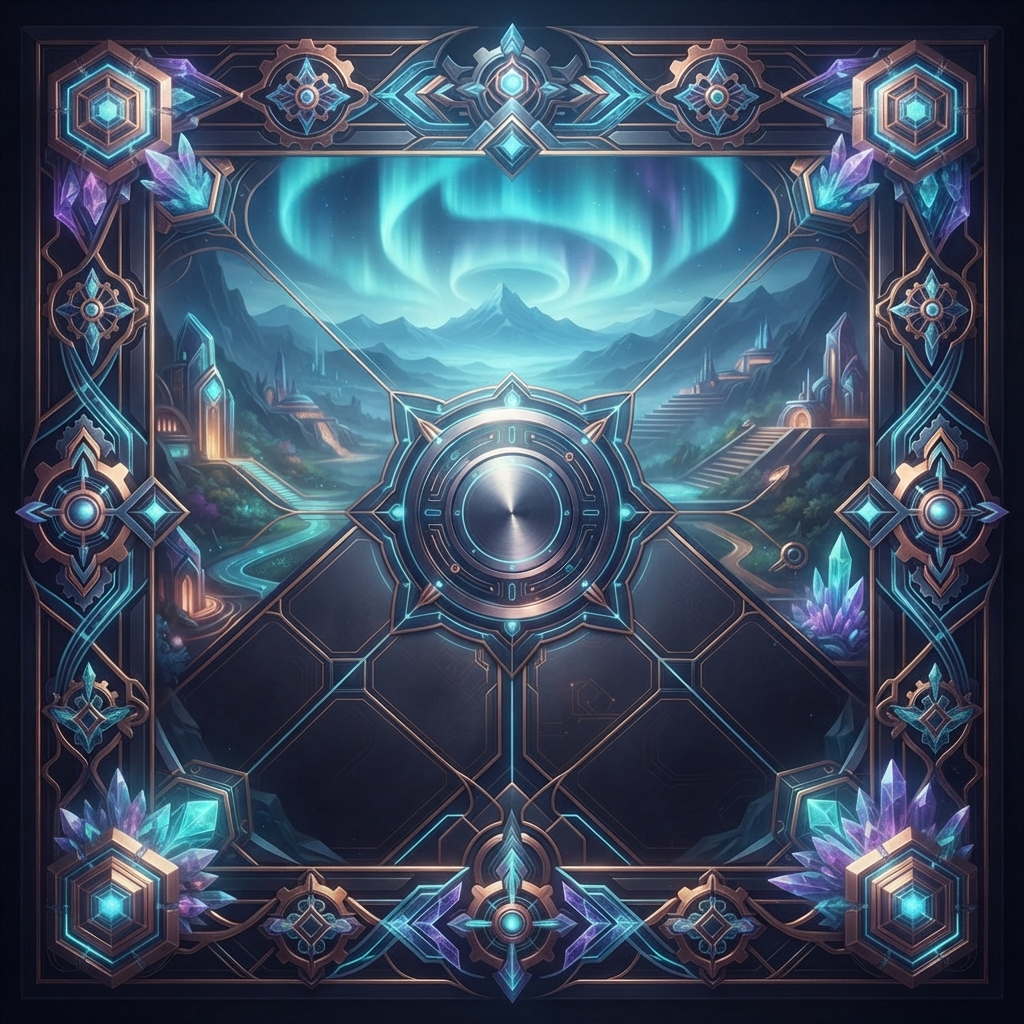
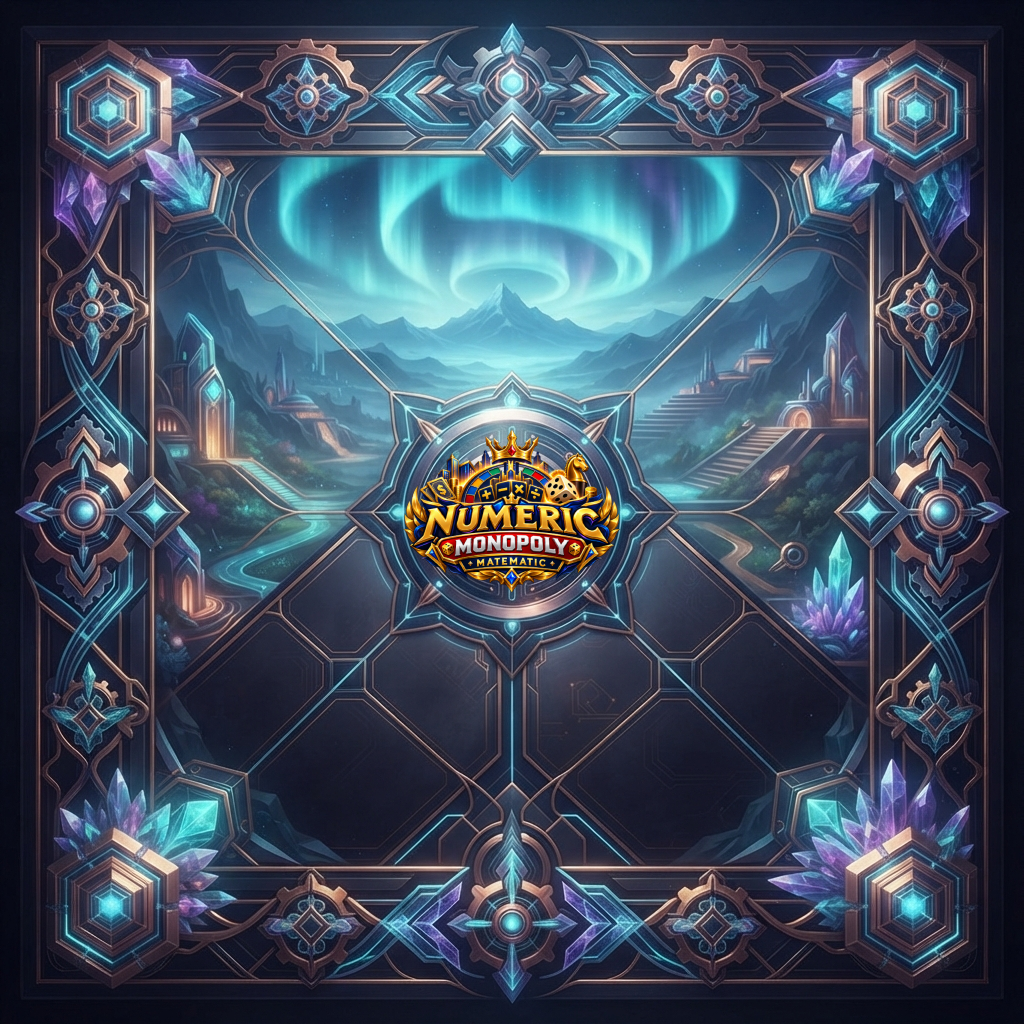
v77

Changed region(s): [[0.375, 0.4062, 0.625, 0.5938]]

diff --git a/finish-ui.css b/finish-ui.css
@@ -148,9 +148,6 @@ body.is-game-screen .tile-info-modal .btn{min-height:28px!important;font-size:.5
 body.is-game-screen .game-screen{
   position:relative!important;
   --nm-header-h:34px;
-  --nm-logo-top:7%;
-  --nm-logo-w:58px;
-  --nm-logo-h:41px;
   --nm-mode-top:23%;
   --nm-dice-top:30%;
   --nm-skill-top:48%;
@@ -182,7 +179,6 @@ body.is-game-screen .nm-hud-stack{
 }
 
 /* All center controls use the same exact horizontal axis: 50%. */
-body.is-game-screen .nm-hud-logo,
 body.is-game-screen .nm-hud-mode,
 body.is-game-screen .nm-hud-dice,
 body.is-game-screen .nm-hud-skill,
@@ -191,24 +187,11 @@ body.is-game-screen .nm-hud-roll{
   margin:0!important;
 }
 
-/* ===== SINGLE PLACE TO TUNE LOGO ===== */
-body.is-game-screen .nm-hud-logo{
-  top:var(--nm-logo-top)!important;
-  width:var(--nm-logo-w)!important;height:var(--nm-logo-h)!important;
-  padding:0!important;border:0!important;border-radius:0!important;background:transparent!important;
-  box-shadow:none!important;z-index:4!important;
-}
-body.is-game-screen .nm-hud-logo img{
-  display:block!important;width:100%!important;height:100%!important;
-  object-fit:contain!important;object-position:center!important;
-  border:0!important;border-radius:0!important;background:transparent!important;
-  box-shadow:none!important;
-}
 
 /* ===== MODE ===== */
 body.is-game-screen .nm-hud-mode{
   top:var(--nm-mode-top)!important;
-  color:#fff!important;font-size:.62rem!important;line-height:1!important;
+  color:#fff!important;font-size:.82rem!important;line-height:1.05!important;
   font-weight:1000!important;letter-spacing:.025em!important;white-space:nowrap!important;
   text-shadow:0 2px 8px rgba(0,0,0,.65),0 0 12px rgba(91,228,255,.16)!important;
   z-index:5!important;
@@ -291,29 +274,30 @@ body.is-game-screen .nm-question-layer{
   position:absolute!important;left:0!important;right:0!important;
   top:var(--nm-header-h)!important;bottom:0!important;
   z-index:1000!important;
-  display:flex!important;align-items:flex-start!important;justify-content:center!important;
-  padding:5px 8px!important;box-sizing:border-box!important;
+  display:flex!important;align-items:center!important;justify-content:center!important;
+  padding:10px 12px!important;box-sizing:border-box!important;
   overflow:auto!important;
   background:rgba(4,8,31,.34)!important;
   backdrop-filter:blur(1px)!important;-webkit-backdrop-filter:blur(1px)!important;
   pointer-events:auto!important;
 }
 body.is-game-screen .nm-question-layer .question-card{
-  width:min(58vw,520px)!important;max-width:520px!important;
-  max-height:calc(100% - 10px)!important;overflow:auto!important;
-  margin:0!important;padding:14px 16px!important;border-radius:18px!important;box-sizing:border-box!important
+  width:min(42vw,460px)!important;max-width:460px!important;
+  min-height:330px!important;max-height:calc(100% - 16px)!important;
+  overflow:auto!important;margin:0!important;padding:20px 20px 18px!important;
+  border-radius:18px!important;box-sizing:border-box!important
 }
 body.is-game-screen .nm-question-layer .question-top{gap:5px!important;margin-bottom:5px!important}
 body.is-game-screen .nm-question-layer .question-for,
 body.is-game-screen .nm-question-layer .eyebrow,
 body.is-game-screen .nm-question-layer .difficulty-pill,
 body.is-game-screen .nm-question-layer .question-timer{font-size:.40rem!important}
-body.is-game-screen .nm-question-layer h3{font-size:.68rem!important;line-height:1.1!important;margin:0 0 4px!important}
-body.is-game-screen .nm-question-layer .question-text{font-size:.84rem!important;line-height:1.05!important;letter-spacing:-.025em!important;margin:0 0 5px!important}
-body.is-game-screen .nm-question-layer .answer-display{min-height:28px!important;margin-bottom:5px!important;padding:4px 6px!important;font-size:.76rem!important}
-body.is-game-screen .nm-question-layer .numeric-keyboard{gap:3px!important}
-body.is-game-screen .nm-question-layer .key-btn{min-height:24px!important;padding:2px 4px!important;font-size:.58rem!important;border-radius:6px!important}
-body.is-game-screen .nm-question-layer .key-btn.ok{min-height:28px!important}
+body.is-game-screen .nm-question-layer h3{font-size:.84rem!important;line-height:1.1!important;margin:0 0 4px!important}
+body.is-game-screen .nm-question-layer .question-text{font-size:1.12rem!important;line-height:1.15!important;letter-spacing:-.02em!important;margin:0 0 12px!important}
+body.is-game-screen .nm-question-layer .answer-display{min-height:42px!important;margin-bottom:9px!important;padding:6px 10px!important;font-size:1rem!important}
+body.is-game-screen .nm-question-layer .numeric-keyboard{gap:6px!important}
+body.is-game-screen .nm-question-layer .key-btn{min-height:42px!important;padding:5px 6px!important;font-size:.82rem!important;border-radius:8px!important}
+body.is-game-screen .nm-question-layer .key-btn.ok{min-height:46px!important}
 body.is-game-screen .nm-question-layer .question-hint{margin-top:3px!important;font-size:.38rem!important;line-height:1.1!important}
 
 /* ===== Small tile/detail polish retained from v71 ===== */
@@ -341,8 +325,7 @@ body.is-game-screen .tile-info-modal .btn{min-height:28px!important;font-size:.5
 
 /* ===== Mobile landscape keeps the same architecture; only scale, never re-position by selector wars ===== */
 @media (max-width:900px) and (orientation:landscape){
-  body.is-game-screen .game-screen{--nm-header-h:34px;--nm-logo-w:56px;--nm-logo-h:40px;--nm-dice-top:30%;--nm-skill-top:48%;--nm-roll-top:74%;}
-  body.is-game-screen .nm-hud-mode{font-size:.57rem!important}
+  body.is-game-screen .game-screen{--nm-header-h:34px;--nm-dice-top:30%;--nm-skill-top:48%;--nm-roll-top:74%;}
   body.is-game-screen .nm-hud-dice-pair{gap:8px!important;min-height:70px!important}
   body.is-game-screen .nm-hud-dice-pair .dice-3d-mini-wrap{width:64px!important;height:64px!important}
   body.is-game-screen .nm-hud-dice-pair .dice-3d{width:58px!important;height:58px!important}
@@ -359,21 +342,28 @@ body.is-game-screen .tile-info-modal .btn{min-height:28px!important;font-size:.5
 }
 
 @media (max-width:560px) and (orientation:landscape){
-  body.is-game-screen .game-screen{--nm-header-h:34px;--nm-logo-w:54px;--nm-logo-h:38px;}
-  body.is-game-screen .nm-hud-mode{font-size:.53rem!important}
+  body.is-game-screen .game-screen{--nm-header-h:34px;}
   body.is-game-screen .nm-hud-skill{width:238px!important}
 }
 
 /* ===== v74 canonical finishing controls ===== */
 body.is-game-screen .nm-hud-roll{top:74%!important;width:68px!important;height:68px!important;min-width:68px!important;min-height:68px!important;border-radius:50%!important;padding:0!important}
-body.is-game-screen .nm-question-layer .question-card{width:min(58vw,520px)!important;max-width:520px!important}
 @media (max-width:900px) and (orientation:landscape){
   body.is-game-screen .nm-hud-roll{top:73%!important;width:62px!important;height:62px!important;min-width:62px!important;min-height:62px!important;font-size:.50rem!important}
-  body.is-game-screen .nm-question-layer .question-card{width:min(68vw,500px)!important;max-width:500px!important}
+  body.is-game-screen .nm-question-layer .question-card{
+    width:min(82vw,560px)!important;max-width:560px!important;
+    min-height:340px!important;padding:20px 18px 18px!important
+  }
+  body.is-game-screen .nm-question-layer .question-text{font-size:1.12rem!important}
 }
 @media (max-width:560px) and (orientation:landscape){
   body.is-game-screen .nm-hud-roll{top:72%!important;width:58px!important;height:58px!important;min-width:58px!important;min-height:58px!important;font-size:.47rem!important}
-  body.is-game-screen .nm-question-layer .question-card{width:min(72vw,470px)!important;max-width:470px!important}
+  body.is-game-screen .nm-question-layer .question-card{
+    width:min(86vw,600px)!important;max-width:600px!important;
+    min-height:350px!important;padding:20px 18px 18px!important
+  }
+  body.is-game-screen .nm-question-layer .question-text{font-size:1.18rem!important}
+  body.is-game-screen .nm-question-layer .key-btn{min-height:44px!important;font-size:.86rem!important}
 }
 
 /* ===== v74 movement camera: fit both endpoints with a safe top/header margin ===== */
@@ -396,11 +386,3 @@ body.is-game-screen .board-cell .token{width:clamp(70px,8.2vw,108px)!important;h
 .fireworks i{position:absolute;left:calc(12% + ((var(--burst) * 17)%76)*1%);top:calc(18% + ((var(--burst) * 29)%60)*1%);width:5px;height:5px;border-radius:50%;background:hsl(var(--hue),100%,68%);box-shadow:0 0 10px currentColor,0 0 22px currentColor;opacity:0;animation:megaFirework 1.55s cubic-bezier(.15,.7,.2,1) infinite;animation-delay:var(--delay);transform-origin:center}
 @keyframes megaFirework{0%{opacity:0;transform:rotate(var(--angle)) translateX(0) scale(.15)}12%{opacity:1}62%{opacity:1;transform:rotate(var(--angle)) translateX(55px) scale(1.35)}100%{opacity:0;transform:rotate(var(--angle)) translateX(115px) scale(.05)}}
 .win-card{z-index:20!important}
-
-/* ===== v76 VICTORY FIREWORKS: launch from bottom -> explode overhead ===== */
-.win-layer .fireworks{position:absolute!important;inset:0!important;overflow:hidden!important;z-index:8!important;pointer-events:none!important}
-.win-layer .firework-burst{position:absolute!important;left:var(--x)!important;bottom:4%!important;width:0!important;height:0!important;display:block!important;animation:fwLaunch 1.55s cubic-bezier(.2,.72,.18,1) var(--delay) infinite!important}
-.win-layer .firework-burst .rocket{position:absolute!important;left:-2px!important;bottom:0!important;width:4px!important;height:54px!important;border-radius:50%!important;background:linear-gradient(to top,transparent,rgba(255,255,255,.95))!important;box-shadow:0 0 8px rgba(255,255,255,.9)!important;opacity:.9!important}
-.win-layer .firework-burst i{position:absolute!important;left:0!important;top:0!important;width:5px!important;height:5px!important;margin:-2.5px!important;border-radius:50%!important;background:hsl(var(--hue),100%,68%)!important;box-shadow:0 0 8px currentColor,0 0 18px currentColor!important;opacity:0!important;transform:rotate(var(--angle)) translateX(0)!important;animation:fwBurst 1.55s ease-out var(--delay) infinite!important;animation-fill-mode:both!important}
-@keyframes fwLaunch{0%{transform:translateY(0);opacity:1}38%{transform:translateY(-42vh);opacity:1}43%{transform:translateY(-42vh);opacity:0}100%{transform:translateY(-42vh);opacity:0}}
-@keyframes fwBurst{0%,38%{opacity:0;transform:rotate(var(--angle)) translateX(0) scale(.2)}43%{opacity:1;transform:rotate(var(--angle)) translateX(10px) scale(1)}72%{opacity:1;transform:rotate(var(--angle)) translateX(var(--radius)) scale(1)}100%{opacity:0;transform:rotate(var(--angle)) translateX(calc(var(--radius) + 18px)) scale(.65)}}

diff --git a/app.js b/app.js
@@ -93,7 +93,7 @@ const TILE_BLUEPRINT = [
   { name: 'NEXUS', icon: '◈', type: 'property', color: '#65d7ff', price: 520, rent: 145 }
 ];
 
-const ASSET_VERSION = '76';
+const ASSET_VERSION = '77';
 
 function versionedAsset(path) {
   if (!path) return '';
@@ -781,7 +781,6 @@ function renderGame() {
         <div class="nm-hud-layer" aria-label="Kontrol permainan">
           <div class="nm-hud-stage">
             <div class="nm-hud-stack">
-              <div class="nm-hud-logo"><img src="${versionedAsset('assets/logo-numeric-monopoly-matematic.png')}" alt="Numeric Monopoly Matematic" onerror="this.style.display='none';this.nextElementSibling.style.display='none'" /><span class="board-center-logo-fallback"></span></div>
               <span class="nm-hud-mode">${state.mode === 'ai' ? 'Mode 1 VS AI' : (MODE_LABELS[state.mode] || 'BATTLE ARENA')}</span>
               <div class="nm-hud-dice"><span>DADU</span><div class="nm-hud-dice-pair"><span class="dice-3d-mini-wrap">${dice3DMarkup('center-die-a', diceA, state.rolling, currentDice?.asset)}</span><em>+</em><span class="dice-3d-mini-wrap">${dice3DMarkup('center-die-b', diceB, state.rolling, currentDice?.asset)}</span></div><b id="center-roll-value">${diceValue}</b><small id="center-roll-progress">${isMoving ? `${state.moveStep}/${state.lastRoll}` : ''}</small></div>
               ${diceSkillMarkup()}
@@ -856,8 +855,7 @@ function renderBoardCell(tile, index) {
   const ownerPlayer = owner !== null && owner !== undefined ? state.players[owner] : null;
   const isBuyable = tile.type === 'property' || tile.type === 'utility';
   const ownerBadge = isBuyable && ownerPlayer ? `<div class="owner-marker" style="--owner-color:${ownerColor}" title="Milik ${escapeHtml(ownerPlayer.name)}" aria-label="Milik ${escapeHtml(ownerPlayer.name)}"><span>${escapeHtml(ownerPlayer.name.slice(0, 8))}</span></div>` : '';
-  const houseCount = Number.isInteger(Number(tile.houses)) ? Math.max(0, Math.min(4, Number(tile.houses))) : 0;
-  const building = tile.owner !== null && tile.owner !== undefined && tile.hotel ? '<span class="building-badge hotel">🏨</span>' : tile.owner !== null && tile.owner !== undefined && houseCount > 0 ? `<span class="building-badge">${'▴'.repeat(houseCount)}</span>` : '';
+  const building = tile.hotel ? '<span class="building-badge hotel">🏨</span>' : tile.houses ? `<span class="building-badge">${'▴'.repeat(tile.houses)}</span>` : '';
   const tileKey = TILE_ASSET_KEYS[index] || '';
   const tileNo = String(index + 1).padStart(2, '0');
   const exactAsset = tile.asset || `assets/tiles/tile-${tileNo}-${tileKey}.png`;
@@ -1038,8 +1036,8 @@ function renderModal() {
     return `<div class="modal-layer"><div class="modal-card"><p class="eyebrow">Local demo</p><h3>Reset semua progres?</h3><p>Data lokal di perangkat ini akan dihapus. Aksi ini tidak menghapus data Firebase.</p><div class="modal-actions"><button class="btn btn-ghost" data-action="modal-close">Batal</button><button class="btn btn-danger" data-action="confirm-reset">Reset progres</button></div></div></div>`;
   }
   if (modal.type === 'win') {
-    const fireworks = Array.from({length:10},(_,i)=>{ const x=10+i*9; const delay=(i*0.22).toFixed(2); return `<span class="firework-burst" style="--x:${x}%;--delay:${delay}s"><b class="rocket"></b>${Array.from({length:18},(_,j)=>`<i style="--angle:${j*20}deg;--hue:${(i*37+j*11)%360};--radius:${70+(j%4)*16}px"></i>`).join('')}</span>`; }).join('');
-    return `<div class="modal-layer win-layer"><div class="fireworks" aria-hidden="true">${fireworks}</div><div class="victory-glow"></div><div class="modal-card win-card" style="text-align:center"><div class="win-trophy">🏆</div><p class="eyebrow">GAME OVER • VICTORY</p><h3>Selamat, ${escapeHtml(modal.winnerName || 'Pemenang')}!</h3><p>${escapeHtml(modal.reason || 'Permainan selesai.')} <strong>${escapeHtml(modal.winnerName || 'Pemenang')}</strong> menjadi pemenang Numeric Monopoly Matematic.</p><div class="row" style="justify-content:center;gap:9px;margin-top:14px"><span class="soft-chip">+${modal.points} rating</span><span class="soft-chip">◆ ${modal.diamond} bonus</span></div><div class="modal-actions" style="justify-content:center"><button class="btn btn-ghost" data-action="go-screen" data-screen="leaderboard">Lihat ranking</button><button class="btn btn-primary" data-action="begin-game">Main lagi</button></div></div></div>`;
+    const sparks = Array.from({length:72},(_,i)=>{ const burst=i%9; const group=Math.floor(i/9); const angle=(burst*40)-20; const hue=(group*47+burst*9)%360; const delay=((i%9)*-0.08-(group%3)*0.35).toFixed(2); return `<i style="--angle:${angle}deg;--hue:${hue};--delay:${delay}s;--burst:${group}"></i>`; }).join('');
+    return `<div class="modal-layer win-layer"><div class="fireworks" aria-hidden="true">${sparks}</div><div class="victory-glow"></div><div class="modal-card win-card" style="text-align:center"><div class="win-trophy">🏆</div><p class="eyebrow">GAME OVER • VICTORY</p><h3>Selamat, ${escapeHtml(modal.winnerName || 'Pemenang')}!</h3><p>${escapeHtml(modal.reason || 'Permainan selesai.')} <strong>${escapeHtml(modal.winnerName || 'Pemenang')}</strong> menjadi pemenang Numeric Monopoly Matematic.</p><div class="row" style="justify-content:center;gap:9px;margin-top:14px"><span class="soft-chip">+${modal.points} rating</span><span class="soft-chip">◆ ${modal.diamond} bonus</span></div><div class="modal-actions" style="justify-content:center"><button class="btn btn-ghost" data-action="go-screen" data-screen="leaderboard">Lihat ranking</button><button class="btn btn-primary" data-action="begin-game">Main lagi</button></div></div></div>`;
   }
   return '';
 }
@@ -1778,7 +1776,7 @@ function propertyGroup(tile) {
 }
 
 function canBuildHouseOn(tile, playerIndex) {
-  if (!tile || tile.type !== 'property' || tile.owner !== playerIndex || tile.hotel || Number(tile.houses || 0) >= 4) return false;
+  if (!tile || tile.type !== 'property' || tile.owner !== playerIndex || tile.hotel || tile.houses >= 4) return false;
   if (!ownsFullGroup(tile, playerIndex)) return false;
   const group = propertyGroup(tile);
   const minLevel = Math.min(...group.map((candidate) => candidate.hotel ? 5 : Number(candidate.houses || 0)));
@@ -1786,7 +1784,7 @@ function canBuildHouseOn(tile, playerIndex) {
 }
 
 function canBuildHotelOn(tile, playerIndex) {
-  if (!tile || tile.type !== 'property' || tile.owner !== playerIndex || tile.hotel || Number(tile.houses || 0) < 4) return false;
+  if (!tile || tile.type !== 'property' || tile.owner !== playerIndex || tile.hotel || tile.houses < 4) return false;
   if (!ownsFullGroup(tile, playerIndex)) return false;
   return propertyGroup(tile).every((candidate) => candidate.hotel || Number(candidate.houses || 0) >= 4);
 }
@@ -1917,7 +1915,7 @@ function resolveLanding(index) {
           aiHandleLandingFinish();
           return;
         }
-        state.modal = { type: 'manage', tile, tileIndex: index, source: 'board-manage' };
+        state.modal = { type: 'manage', tile, tileIndex: index, source: 'landing' };
         return;
       }
       if (state.mode === 'ai' && state.activePlayer === 1) {
@@ -2637,7 +2635,7 @@ function handleClick(event) {
     const tile = state.tiles[index] || TILE_BLUEPRINT[index];
     if (tile) {
       if (state.screen === 'game' && tile.type === 'property' && tile.owner === state.activePlayer && state.activePlayer === state.localPlayerIndex) {
-        state.modal = { type: 'manage', tile, tileIndex: index, source: 'board-manage' };
+        state.modal = { type: 'manage', tile, tileIndex: index, source: 'landing' };
       } else {
         state.modal = { type: 'tile-info', tile, tileIndex: index };
       }
@@ -2740,7 +2738,7 @@ function handleClick(event) {
     const closingType = state.modal?.type;
     const closesLanding = state.modal?.source === 'landing';
     state.modal = null;
-    if (closesLanding && (closingType === 'purchase' || closingType === 'auction')) {
+    if (closesLanding && (closingType === 'manage' || closingType === 'purchase' || closingType === 'auction')) {
       finishTurn();
     } else {
       render();

diff --git a/sw.js b/sw.js
@@ -1,4 +1,4 @@
-const CACHE_NAME = 'numeric-monopoly-v76';
+const CACHE_NAME = 'numeric-monopoly-v77';
 const APP_SHELL = ['./','./index.html','./styles.css','./game-ui.css','./brand-assets.css','./tiles-ui.css','./property-ui.css','./gameplay-ui.css','./character-ui.css','./bank-ui.css','./modal-ui.css','./question-ui.css','./battle-ui.css','./camera-ui.css','./ownership-ui.css','./compact-ui.css','./focus-ui.css','./menus-ui.css','./fullscreen-game.css','./emergency-ui.css','./turn-end-ui.css','./drawer-ui.css','./dice-ui.css','./cash-ui.css','./timer-ui.css','./no-active-glow.css','./token-ui.css','./finish-ui.css','./overlay-ui.css','./app.js','./firebase.js','./firebase-config.js','./manifest.webmanifest'];
 self.addEventListener('install',(event)=>{event.waitUntil(caches.open(CACHE_NAME).then((cache)=>cache.addAll(APP_SHELL)).then(()=>self.skipWaiting()));});
 self.addEventListener('activate',(event)=>{event.waitUntil(caches.keys().then((keys)=>Promise.all(keys.filter((key)=>key!==CACHE_NAME).map((key)=>caches.delete(key)))).then(()=>self.clients.claim()));});
